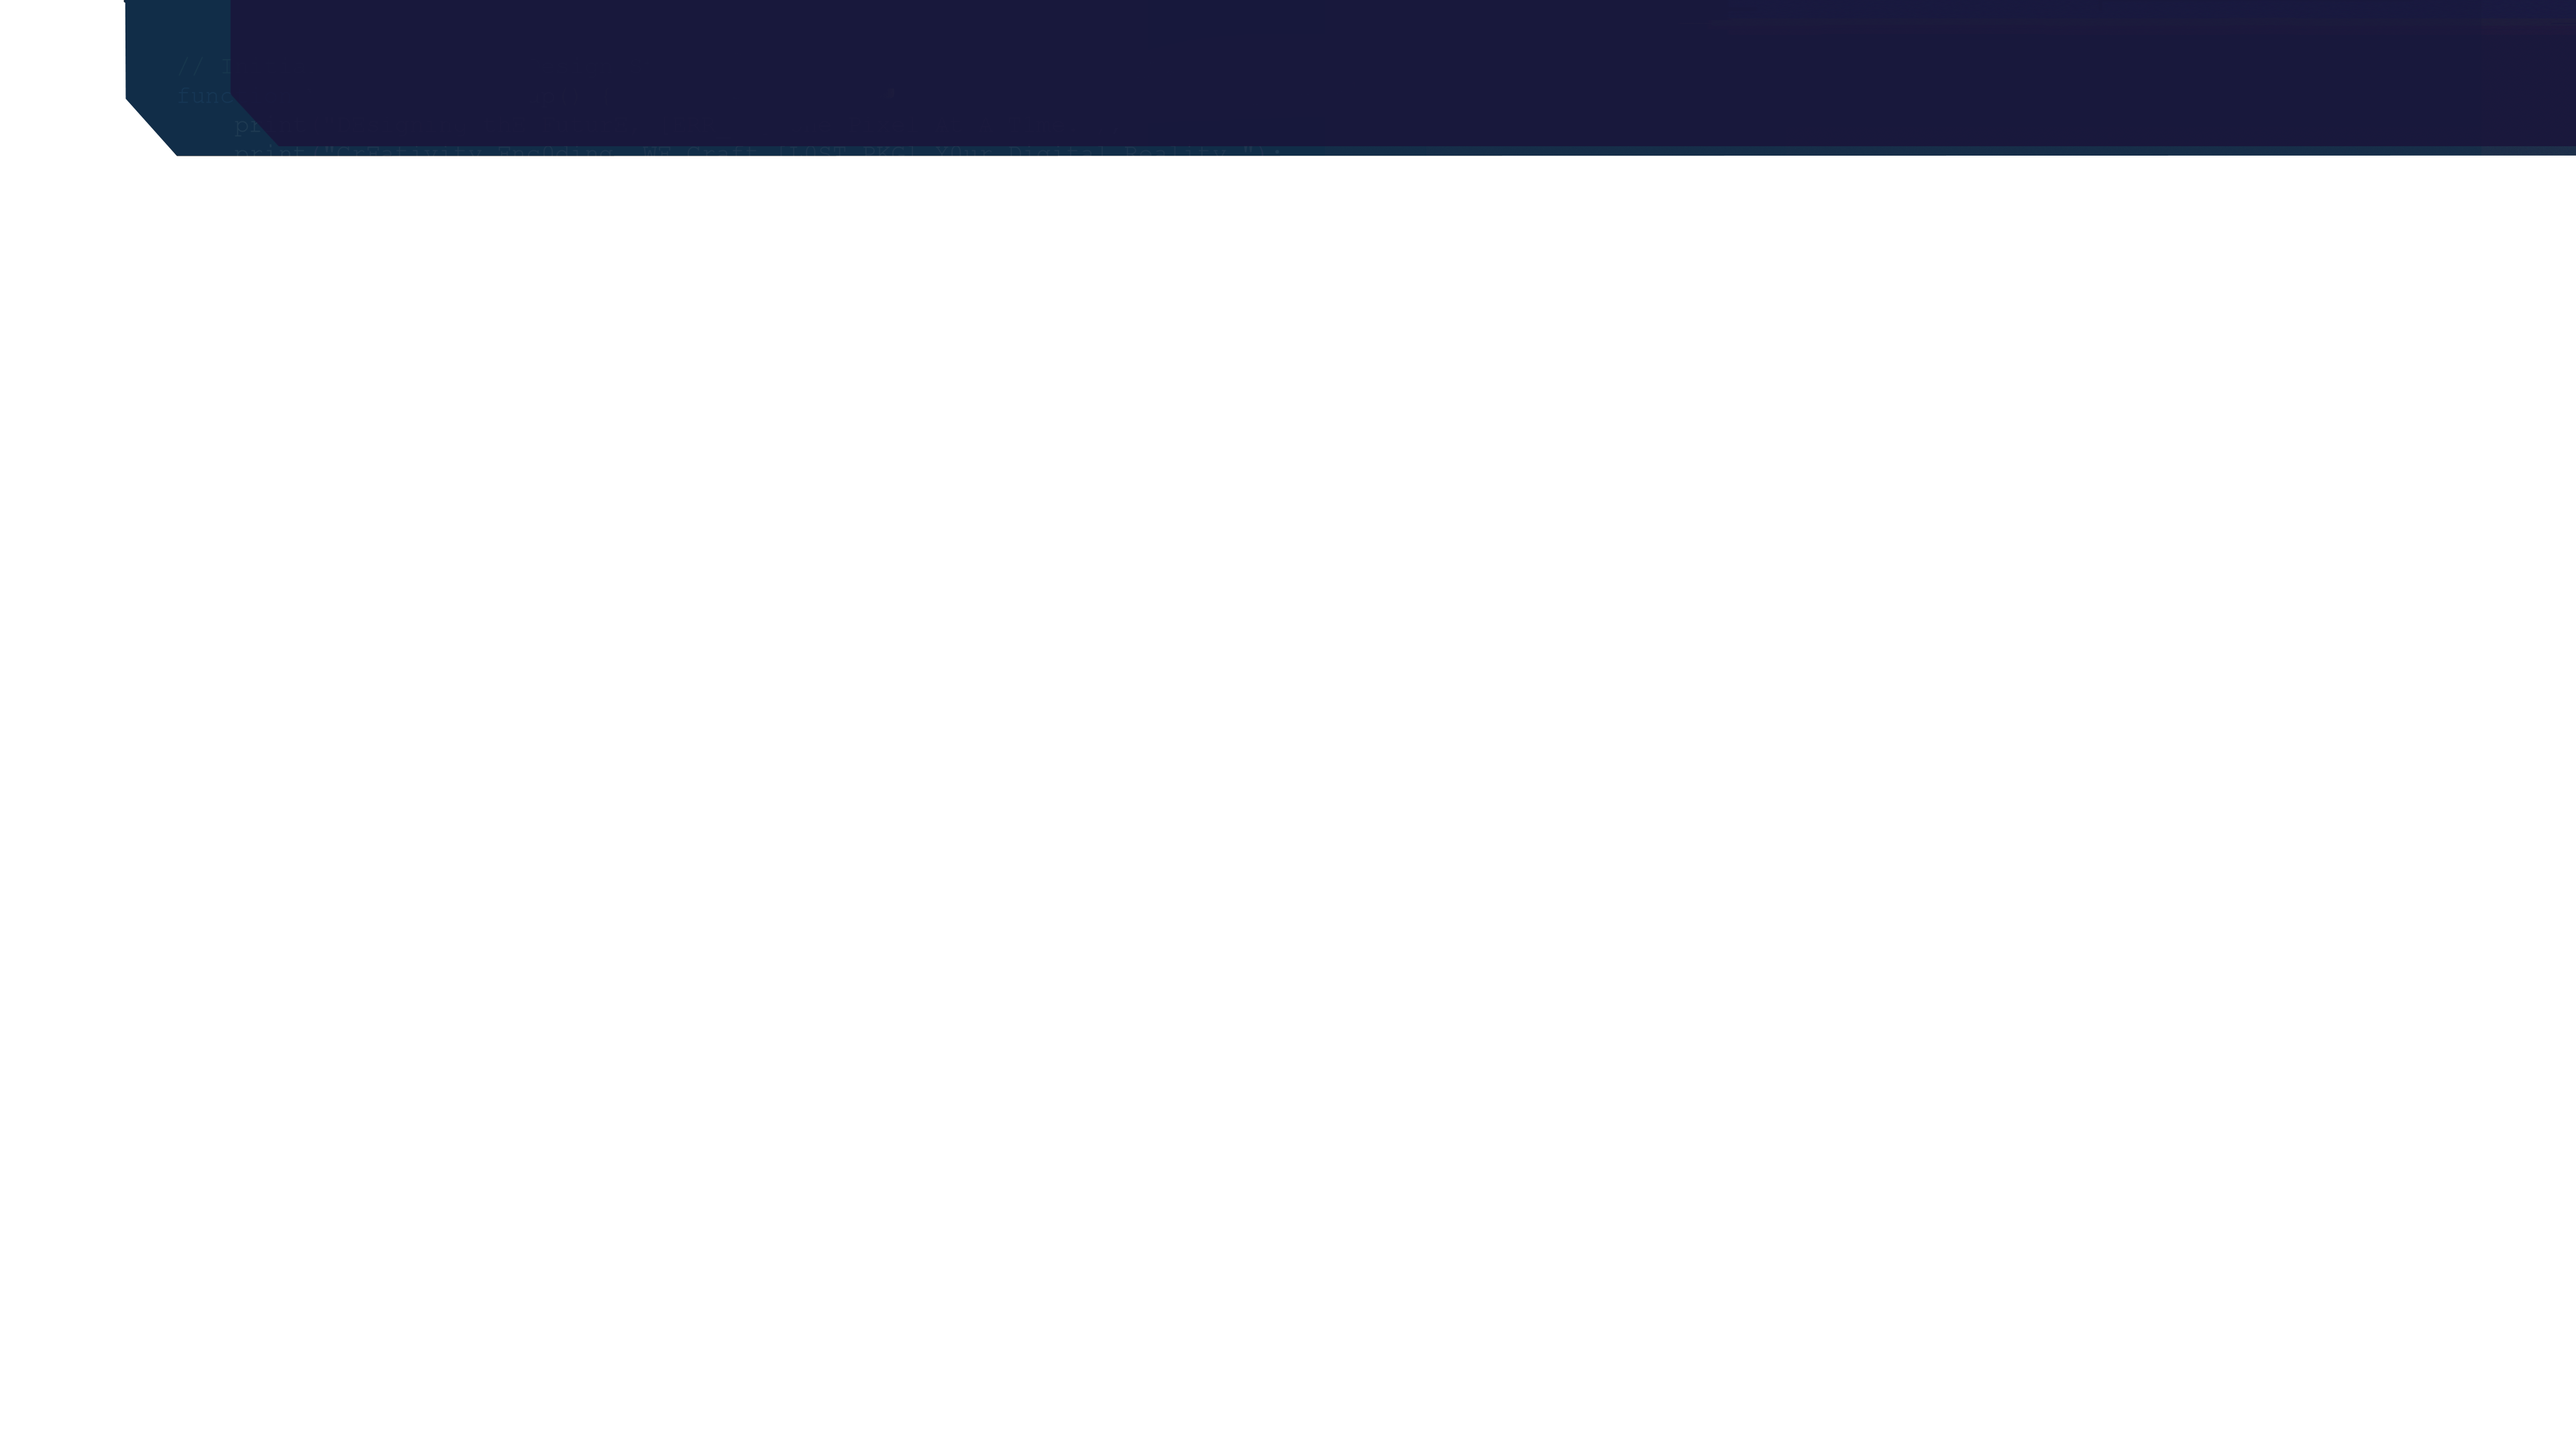
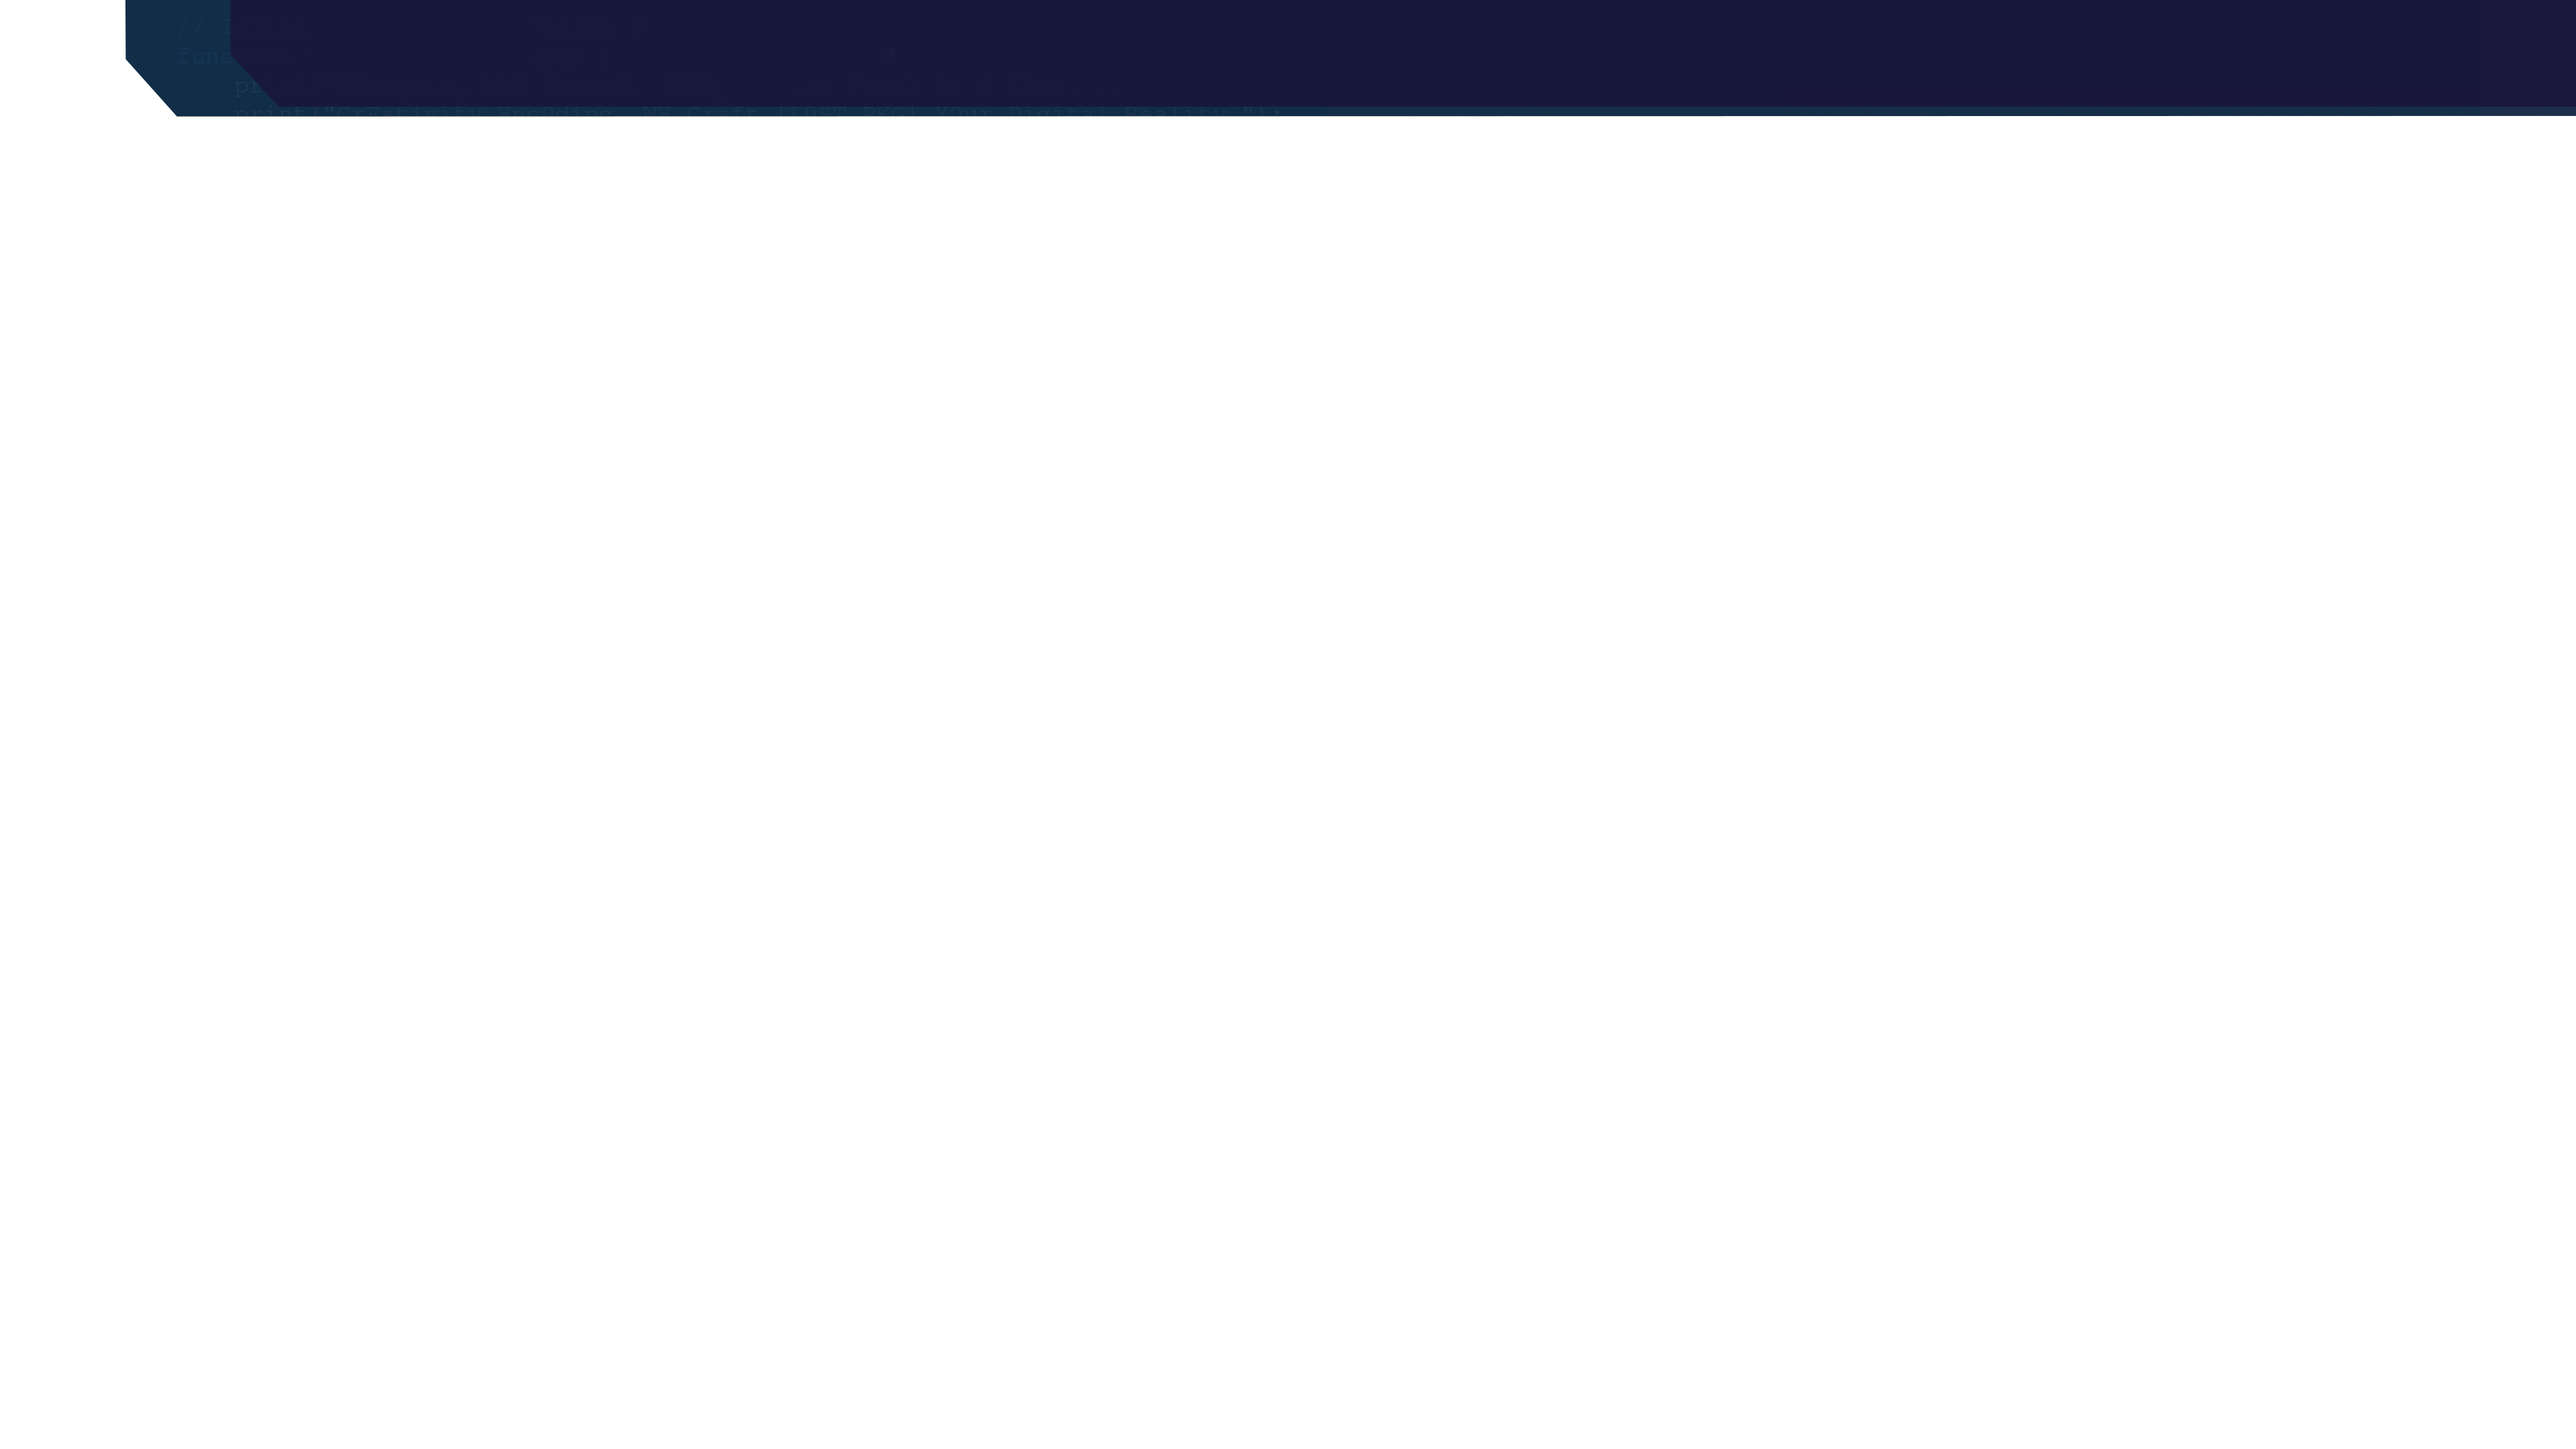
Adjusting style

Changed region(s): [[0.0312, 0.031, 1.0, 0.1241]]

diff --git a/style.css b/style.css
@@ -71,7 +71,7 @@ p {
   top: 0;
   left: 15%;
   width: 85%;
-  height: 12vh; /* % of screen height → where visual bar is */
+  height: 8vh; /* % of screen height → where visual bar is */
   display: flex;
   justify-content: space-around;
   align-items: center;
@@ -79,7 +79,7 @@ p {
 }
 
 #navLinks a img {
-  height: 5vh;
+  height: 3vh;
   width: auto;
   display: block;
   transition: transform 0.2s ease;
